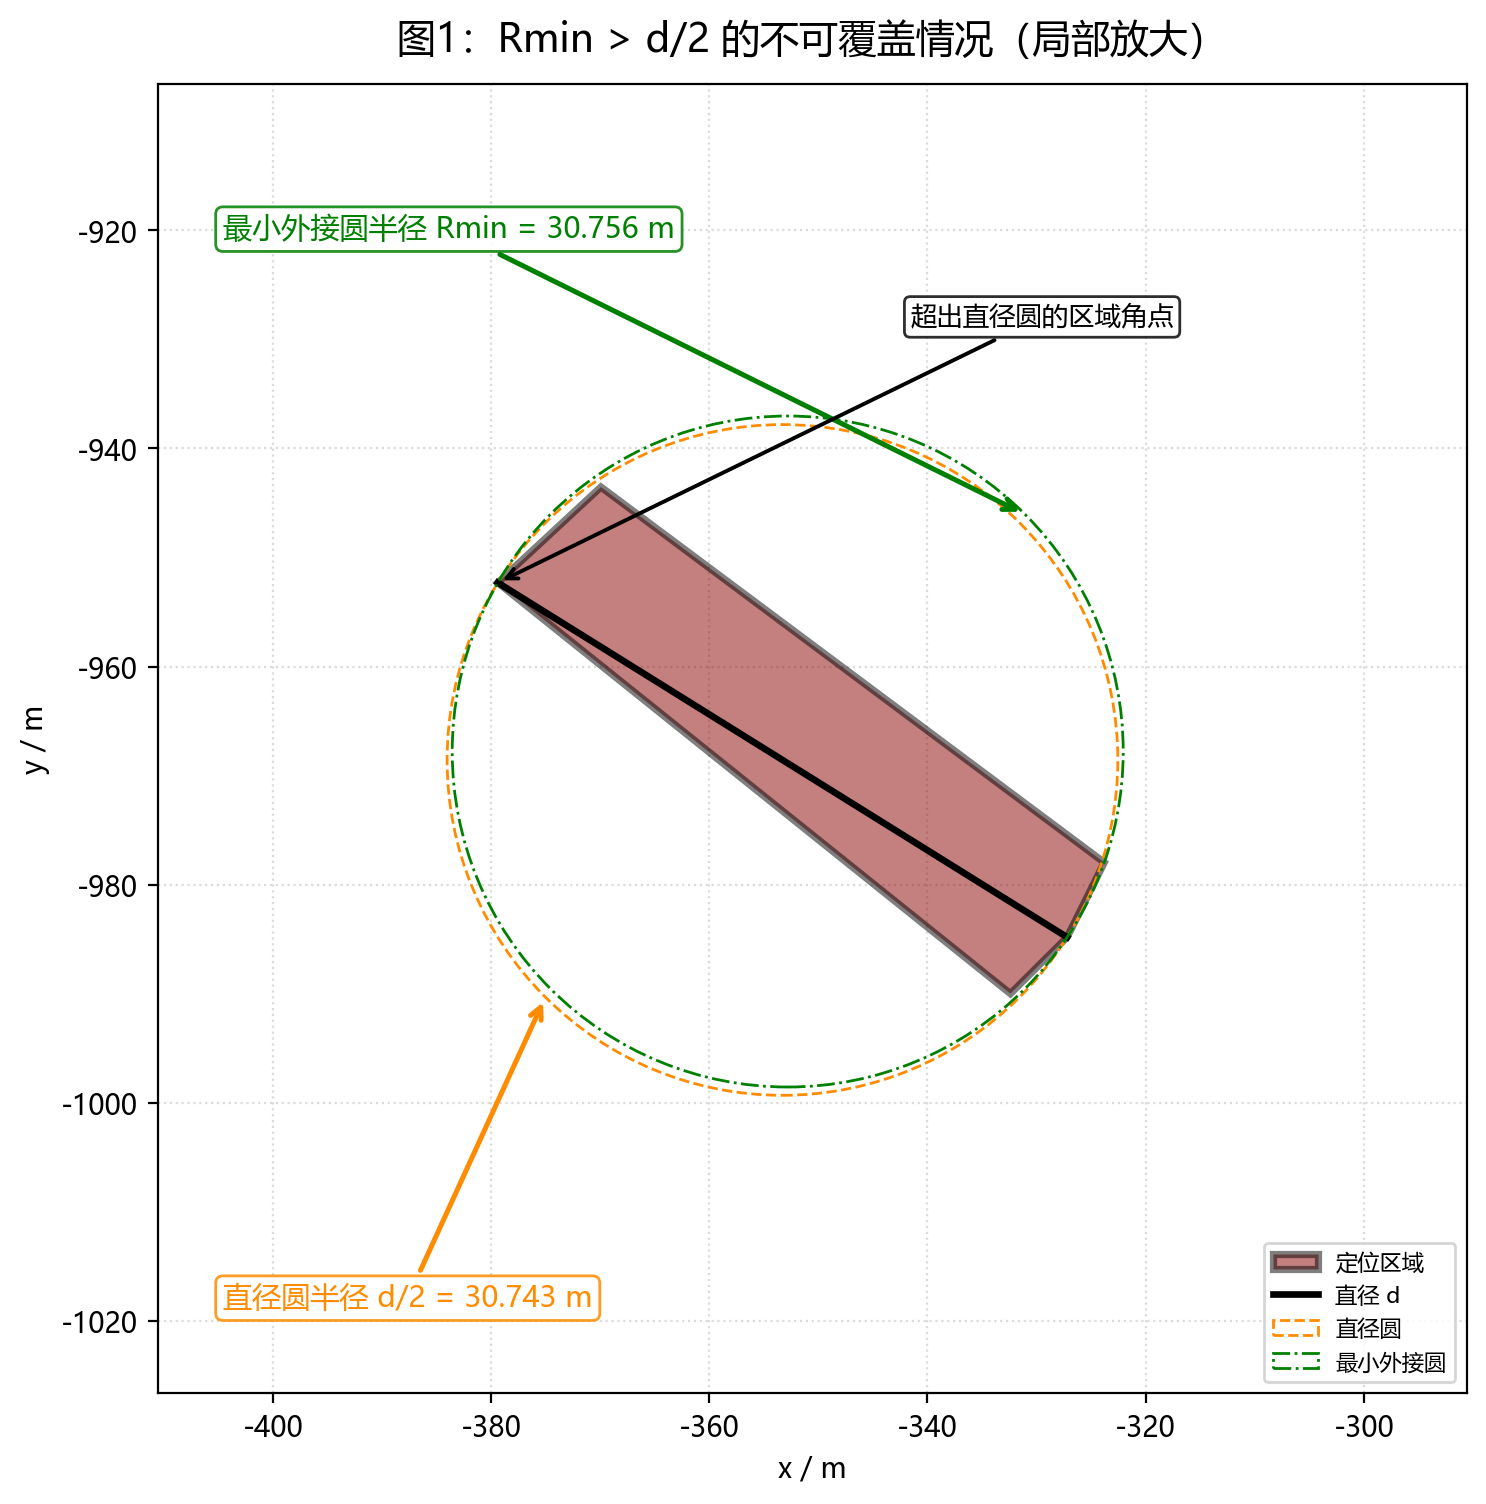
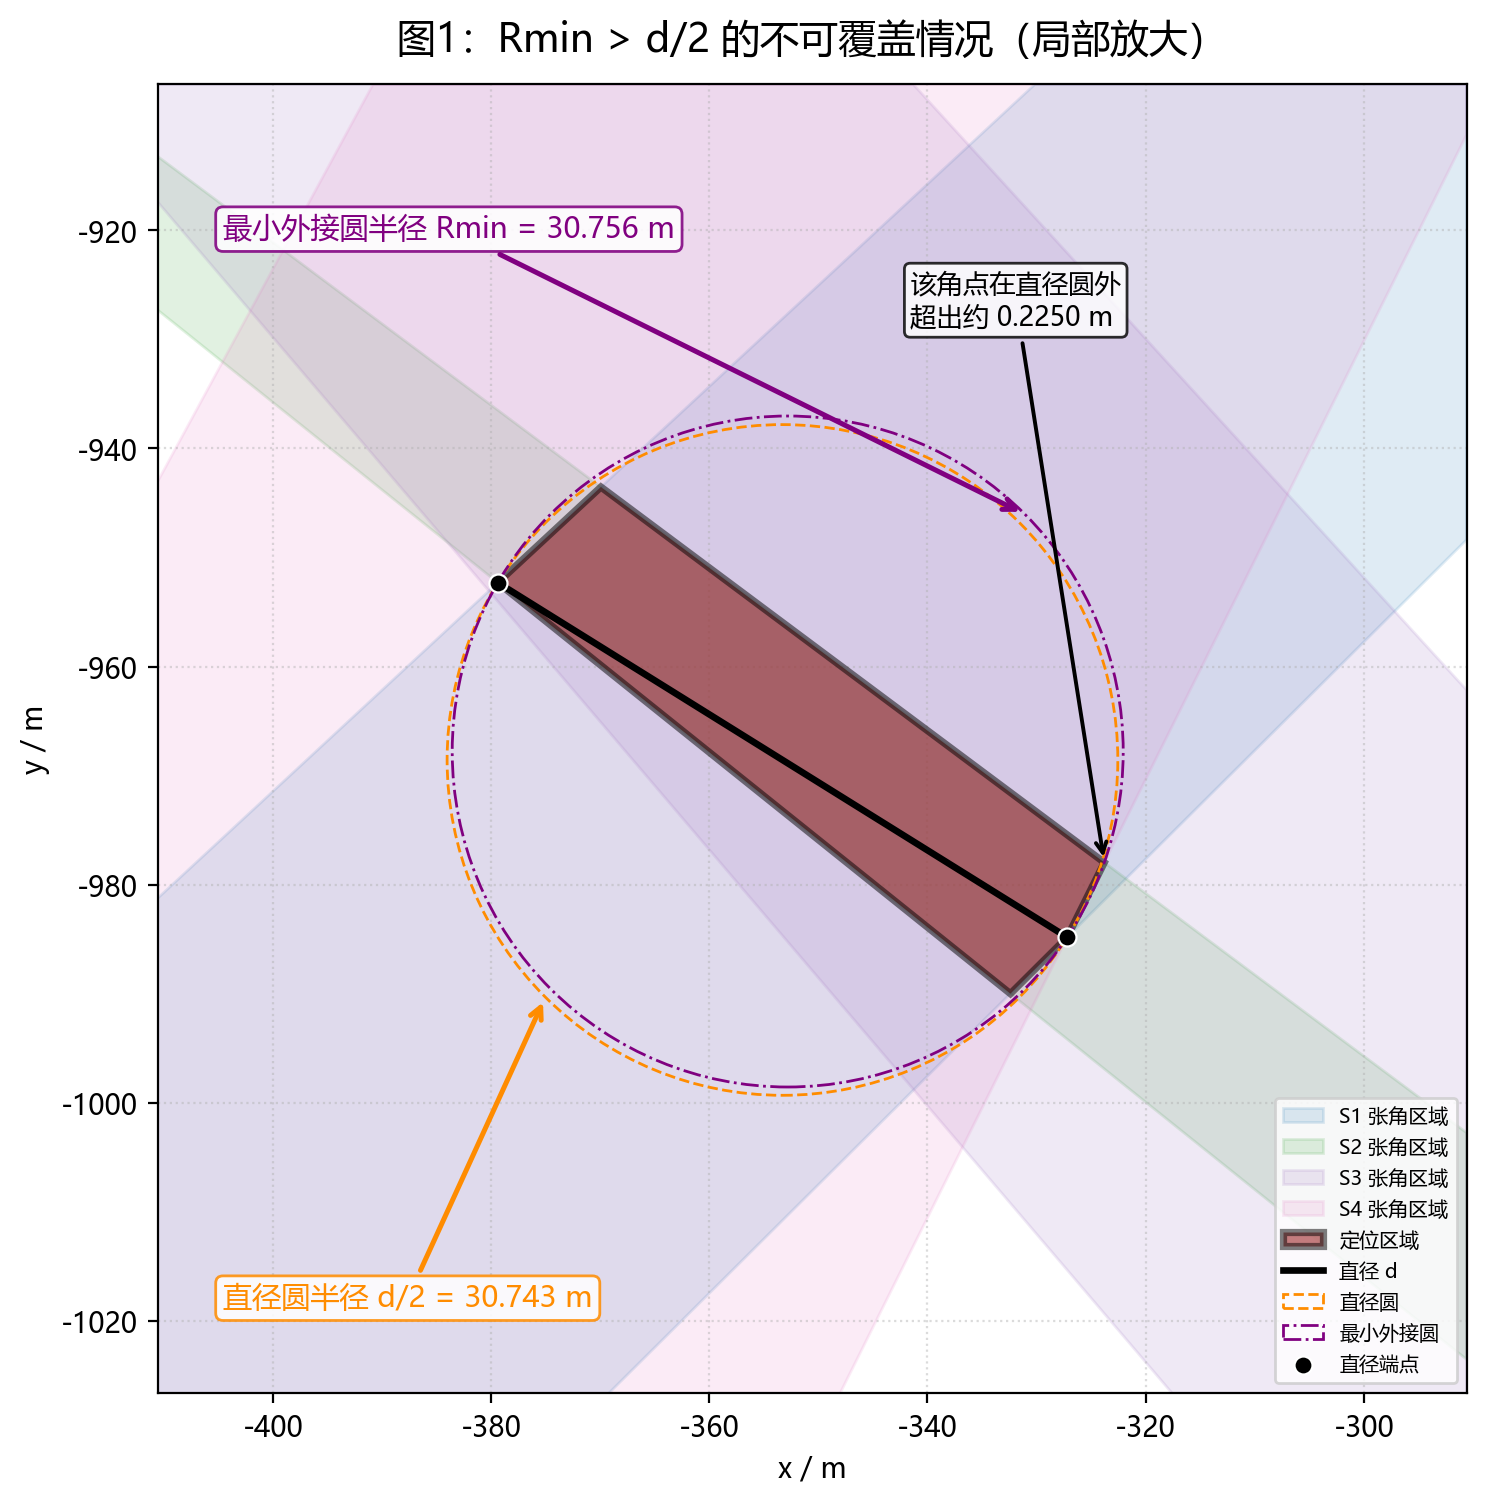
改进图片

diff --git a/problem1_bruteforce.py b/problem1_bruteforce.py
@@ -372,6 +372,33 @@ def plot_cannot_cover_case(result):
     os.makedirs(OUTPUT_DIR, exist_ok=True)
     fig, ax = plt.subplots(figsize=(8.5, 8.5))
 
+    center_x = result.region.centroid.x
+    center_y = result.region.centroid.y
+    local_window = Polygon([
+        (center_x - 60.0, center_y - 60.0),
+        (center_x + 60.0, center_y - 60.0),
+        (center_x + 60.0, center_y + 60.0),
+        (center_x - 60.0, center_y + 60.0),
+    ])
+
+    sector_colors = ["#1f77b4", "#2ca02c", "#9467bd", "#e377c2", "#17becf"]
+    for index, (sensor_x, sensor_y, bearing) in enumerate(result.detections, start=1):
+        sector = sector_polygon(sensor_x, sensor_y, bearing, ANGLE_ERROR_DEG, RAY_LENGTH)
+        local_sector = sector.intersection(local_window)
+        if not local_sector.is_empty:
+            geometries = [local_sector] if local_sector.geom_type == "Polygon" else list(getattr(local_sector, "geoms", []))
+            for geometry in geometries:
+                if geometry.geom_type == "Polygon":
+                    sx, sy = geometry.exterior.xy
+                    ax.fill(
+                        sx,
+                        sy,
+                        color=sector_colors[(index - 1) % len(sector_colors)],
+                        alpha=0.14,
+                        label=f"S{index} 张角区域",
+                        zorder=1,
+                    )
+
     vx, vy = result.region.exterior.xy
     ax.add_patch(MplPolygon(
         list(zip(vx, vy)),
@@ -402,21 +429,30 @@ def plot_cannot_cover_case(result):
         edgecolor="darkorange",
         linewidth=1.0,
         label="直径圆",
-        zorder=7,
+        zorder=9,
     ))
     ax.add_patch(MplCircle(
         (result.min_circle[0], result.min_circle[1]),
         result.min_circle[2],
         fill=False,
         linestyle="-.",
-        edgecolor="green",
+        edgecolor="purple",
         linewidth=1.0,
         label="最小外接圆",
-        zorder=9,
+        zorder=10,
     ))
 
-    center_x = result.region.centroid.x
-    center_y = result.region.centroid.y
+    ax.scatter(
+        [result.endpoint_a[0], result.endpoint_b[0]],
+        [result.endpoint_a[1], result.endpoint_b[1]],
+        s=42,
+        color="black",
+        edgecolor="white",
+        linewidth=0.8,
+        zorder=11,
+        label="直径端点",
+    )
+
     ax.set_xlim(center_x - 60.0, center_x + 60.0)
     ax.set_ylim(center_y - 60.0, center_y + 60.0)
     ax.set_aspect("equal", adjustable="box")
@@ -425,7 +461,11 @@ def plot_cannot_cover_case(result):
     ax.set_ylabel("y / m")
     ax.set_title("图1：Rmin > d/2 的不可覆盖情况（局部放大）", fontsize=14, pad=12)
 
-    region_corner = max(result.vertices, key=lambda point: distance(point, (result.min_circle[0], result.min_circle[1])))
+    region_corner = max(
+        result.vertices,
+        key=lambda point: distance(point, (diameter_circle[0], diameter_circle[1])) - diameter_circle[2],
+    )
+    outside_gap = distance(region_corner, (diameter_circle[0], diameter_circle[1])) - diameter_circle[2]
     min_circle_label_point = (
         result.min_circle[0] + result.min_circle[2] / math.sqrt(2.0),
         result.min_circle[1] + result.min_circle[2] / math.sqrt(2.0),
@@ -439,11 +479,11 @@ def plot_cannot_cover_case(result):
         f"最小外接圆半径 Rmin = {result.min_circle[2]:.3f} m",
         xy=min_circle_label_point,
         xytext=(center_x - 54.0, center_y + 46.0),
-        arrowprops={"arrowstyle": "->", "color": "green", "linewidth": 1.8},
-        color="green",
+        arrowprops={"arrowstyle": "->", "color": "purple", "linewidth": 1.8},
+        color="purple",
         fontsize=10.5,
-        bbox={"boxstyle": "round,pad=0.25", "facecolor": "white", "edgecolor": "green", "alpha": 0.86},
-        zorder=10,
+        bbox={"boxstyle": "round,pad=0.25", "facecolor": "white", "edgecolor": "purple", "alpha": 0.88},
+        zorder=12,
     )
     ax.annotate(
         f"直径圆半径 d/2 = {diameter_circle[2]:.3f} m",
@@ -453,19 +493,19 @@ def plot_cannot_cover_case(result):
         color="darkorange",
         fontsize=10.5,
         bbox={"boxstyle": "round,pad=0.25", "facecolor": "white", "edgecolor": "darkorange", "alpha": 0.86},
-        zorder=10,
+        zorder=12,
     )
     ax.annotate(
-        "超出直径圆的区域角点",
+        f"该角点在直径圆外\n超出约 {outside_gap:.4f} m",
         xy=region_corner,
         xytext=(center_x + 9.0, center_y + 38.0),
         arrowprops={"arrowstyle": "->", "color": "black", "linewidth": 1.4},
         fontsize=9.5,
         bbox={"boxstyle": "round,pad=0.22", "facecolor": "white", "edgecolor": "black", "alpha": 0.82},
-        zorder=10,
+        zorder=12,
     )
 
-    ax.legend(loc="lower right", fontsize=8, framealpha=0.82)
+    ax.legend(loc="lower right", fontsize=7.2, framealpha=0.82, ncol=1)
     fig.savefig(VISUALIZATION_PATH, dpi=200, bbox_inches="tight")
     plt.close(fig)
 
